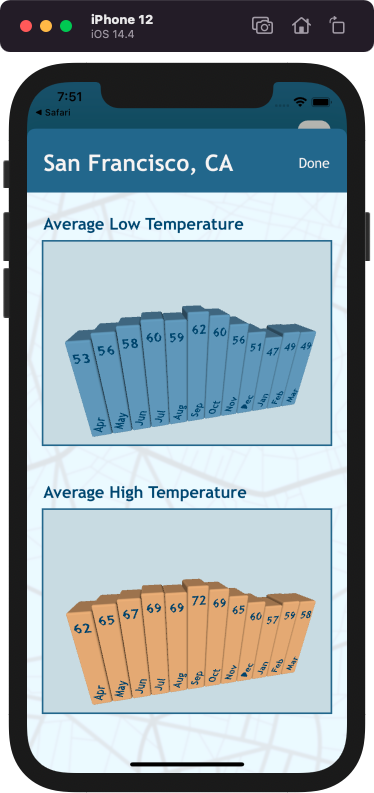
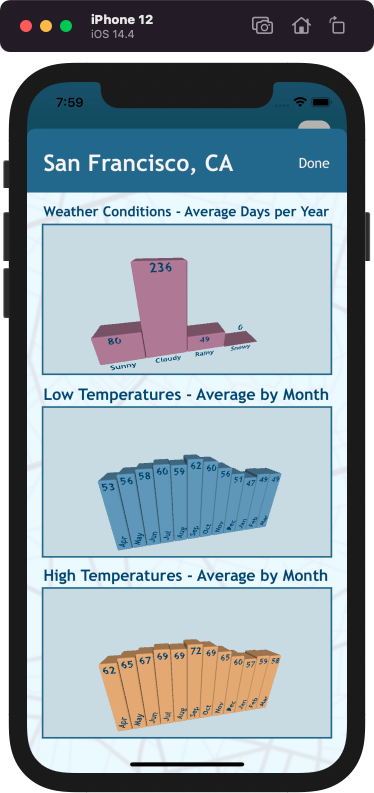
Implemented new weather data, updated documentation

diff --git a/labs-ios-starter/WeatherViewController.swift b/labs-ios-starter/WeatherViewController.swift
@@ -14,6 +14,7 @@ class WeatherViewController: UIViewController {
     // MARK: - Outlets
     
     @IBOutlet private var cityLabel: UILabel!
+    @IBOutlet private var conditionsView: SCNView!
     @IBOutlet private var lowView: SCNView!
     @IBOutlet private var highView: SCNView!
     
@@ -24,13 +25,15 @@ class WeatherViewController: UIViewController {
     var lowCameraNode = SCNNode()
     var highScene = SCNScene()
     var highCameraNode = SCNNode()
+    var conditionsScene = SCNScene()
+    var conditionsCameraNode = SCNNode()
     
     // MARK: - View Lifecycle
 
     override func viewDidLoad() {
         super.viewDidLoad()
-        setupView()
-        setupCamera()
+        setupViews()
+        setupCameras()
         updateViews()
     }
     
@@ -46,10 +49,50 @@ class WeatherViewController: UIViewController {
         guard let city = city,
               let weather = city.weather else { return }
         cityLabel.text = city.cityName + ", " + city.cityState
-        drawBars(weather: weather)
+        drawTemperatureBars(weather: weather)
+        guard let conditions = city.conditions else { return }
+        drawConditionsBars(conditions: conditions)
     }
     
-    private func drawBars(weather: Weather) {
+    /// draws the bar graph for weather conditions
+    /// - Parameter conditions: accepts an unwrapped version of the City's conditions
+    private func drawConditionsBars(conditions: Conditions) {
+        for index in 0..<conditions.conditions.count {
+            let height = CGFloat(conditions.conditions[index]) / 35
+            let yAdjust = height / 2
+            let position = ((CGFloat(index) * 3) - 6)
+            
+            let bar = SCNBox(width: 3, height: height, length: 1.5, chamferRadius: 0.1)
+            bar.materials.first?.diffuse.contents = UIColor(named: "PieChartPurple")
+            let node = SCNNode(geometry: bar)
+            node.position = SCNVector3(position, yAdjust + 0.5, 0)
+            conditionsScene.rootNode.addChildNode(node)
+            
+            var daysHeightAdjust = CGFloat(-1.6)
+            if conditions.conditions[index] < 25 {
+                daysHeightAdjust = 0.5
+            }
+            let daysString = String(conditions.conditions[index])
+            let daysText = SCNText(string: daysString, extrusionDepth: 0)
+            daysText.font = UIFont(name: "TrebuchetMS-Bold", size: 0.7)
+            daysText.materials.first?.diffuse.contents = UIColor(named: "DarkBlue")
+            let daysTextNode = SCNNode(geometry: daysText)
+            daysTextNode.position = SCNVector3(-0.6, yAdjust + daysHeightAdjust, 0.8)
+            node.addChildNode(daysTextNode)
+            
+            let labelString = conditions.labels[index]
+            let labelText = SCNText(string: labelString, extrusionDepth: 0)
+            labelText.font = UIFont(name: "TrebuchetMS-Bold", size: 0.6)
+            labelText.materials.first?.diffuse.contents = UIColor(named: "DarkBlue")
+            let labelNode = SCNNode(geometry: labelText)
+            labelNode.position = SCNVector3(-0.9, -yAdjust - 1.5, 0.8)
+            node.addChildNode(labelNode)
+        }
+    }
+    
+    /// draws the bar graphs for average low temperatures and average high temperatures
+    /// - Parameter weather: accepts an unwrapped version of the City's weather data
+    private func drawTemperatureBars(weather: Weather) {
         for index in 0..<weather.months.count {
             let lowHeight = CGFloat(weather.months[index].minTemp / 10)
             let lowYAdjust = lowHeight / 2
@@ -68,7 +111,7 @@ class WeatherViewController: UIViewController {
             lowText.font = UIFont(name: "TrebuchetMS-Bold", size: 0.6)
             lowText.materials.first?.diffuse.contents = UIColor(named: "DarkBlue")
             let lowTextNode = SCNNode(geometry: lowText)
-            lowTextNode.position = SCNVector3(-0.35, lowYAdjust - 2, 0.8)
+            lowTextNode.position = SCNVector3(-0.35, lowYAdjust - 1.6, 0.8)
             lowNode.addChildNode(lowTextNode)
             
             let highBar = SCNBox(width: 1, height: highHeight, length: 1.5, chamferRadius: 0.1)
@@ -82,7 +125,7 @@ class WeatherViewController: UIViewController {
             highText.font = UIFont(name: "TrebuchetMS-Bold", size: 0.6)
             highText.materials.first?.diffuse.contents = UIColor(named: "DarkBlue")
             let highTextNode = SCNNode(geometry: highText)
-            highTextNode.position = SCNVector3(-0.35, lowYAdjust - 2, 0.8)
+            highTextNode.position = SCNVector3(-0.35, highYAdjust - 1.6, 0.8)
             highNode.addChildNode(highTextNode)
             
             guard let monthString = weather.months[index].month else { return }
@@ -105,26 +148,39 @@ class WeatherViewController: UIViewController {
         }
     }
     
-    private func setupView() {
+    /// configures each SceneKit view, and attaches the scene to the view
+    private func setupViews() {
         lowView.allowsCameraControl = false
         lowView.autoenablesDefaultLighting = true
         highView.allowsCameraControl = false
         highView.autoenablesDefaultLighting = true
+        conditionsView.allowsCameraControl = false
+        conditionsView.autoenablesDefaultLighting = true
+        
         lowView.scene = lowScene
         lowScene.background.contents = UIColor(named: "VeryLightBlue")
         highView.scene = highScene
         highScene.background.contents = UIColor(named: "VeryLightBlue")
+        conditionsView.scene = conditionsScene
+        conditionsScene.background.contents = UIColor(named: "VeryLightBlue")
     }
     
-    private func setupCamera() {
+    /// sets up the camera for each SceneKit view, configuring its position and rotation angle
+    private func setupCameras() {
         lowCameraNode.camera = SCNCamera()
         lowCameraNode.position = SCNVector3(x: -3, y: 8, z: 8)
         lowCameraNode.eulerAngles = SCNVector3(-0.4, -0.2, 0)
         lowScene.rootNode.addChildNode(lowCameraNode)
+        
         highCameraNode.camera = SCNCamera()
         highCameraNode.position = SCNVector3(x: -3, y: 8, z: 8)
         highCameraNode.eulerAngles = SCNVector3(-0.4, -0.2, 0)
         highScene.rootNode.addChildNode(highCameraNode)
+        
+        conditionsCameraNode.camera = SCNCamera()
+        conditionsCameraNode.position = SCNVector3(x: -3, y: 8, z: 8)
+        conditionsCameraNode.eulerAngles = SCNVector3(-0.4, -0.2, 0)
+        conditionsScene.rootNode.addChildNode(conditionsCameraNode)
     }
 
 }

diff --git a/labs-ios-starter/Model/City.swift b/labs-ios-starter/Model/City.swift
@@ -21,6 +21,10 @@ struct City: Decodable {
         case diversity_index
         case walkability
         case livability
+        case sunny_days_avg_year
+        case cloudy_days_avg_year
+        case rainy_days_avg_year
+        case snowy_days_avg_year
         case recommendations
         
         enum recommendationKeys: String, CodingKey {
@@ -44,6 +48,7 @@ struct City: Decodable {
     var airQuality: String?
     var recommendations: [Recommendation] = []
     var weather: Weather? = nil
+    var conditions: Conditions? = nil
     var housing: Housing? = nil
     
     init(cityName: String, cityState: String) {
@@ -63,6 +68,7 @@ struct City: Decodable {
         diversityIndex = try container.decodeIfPresent(Int.self, forKey: .diversity_index)
         crime = try container.decodeIfPresent(String.self, forKey: .crime)
         rentalPrice = try container.decodeIfPresent(Int.self, forKey: .rental_price)
+        
         airQuality = try container.decodeIfPresent(String.self, forKey: .air_quality_index)
         if let air = airQuality {
             if let airQualityWord = airQualityDictionary[air] {
@@ -71,6 +77,14 @@ struct City: Decodable {
                 airQuality = "Good"
             }
         }
+        
+        if let sunnyDays = try container.decodeIfPresent(Int.self, forKey: .sunny_days_avg_year),
+           let cloudyDays = try container.decodeIfPresent(Int.self, forKey: .cloudy_days_avg_year),
+           let rainyDays = try container.decodeIfPresent(Int.self, forKey: .rainy_days_avg_year),
+           let snowyDays = try container.decodeIfPresent(Int.self, forKey: .snowy_days_avg_year) {
+            conditions = Conditions(conditions: [sunnyDays, cloudyDays, rainyDays, snowyDays])
+        }
+        
         recommendations = try container.decodeIfPresent([Recommendation].self, forKey: .recommendations) ?? []
     }
 }

diff --git a/labs-ios-starter/ModelController/ApiController.swift b/labs-ios-starter/ModelController/ApiController.swift
@@ -15,7 +15,7 @@ class ApiController {
     
     // MARK: - Properties
     
-    private let webBaseURL = URL(string: "https://pt17-cityspire-b.herokuapp.com/api")!
+    private let webBaseURL = URL(string: "https://pt17-cityspire-b.herokuapp.com/")!
     private let dsBaseURL = URL(string: "http://cityspire-b-ds.eba-jesgmne9.us-east-1.elasticbeanstalk.com/api")!
     let dataLoader: NetworkDataLoader
     private let cache = Cache<String, City>()
@@ -72,7 +72,7 @@ class ApiController {
     }
     
     /// called in getPropertyData in CityDashboardVC to interpret string values into integers for use in configuring the CircularProgressBarView
-    /// needs editing once the list of predetermined words is available from DS/Web
+    /// Note: airQualityDictionary in Constants is used when saving the City to convert Air Quality Index words to the words used in this app
     /// - Parameter word: accepts a string from a predetermined list
     /// - Returns: returns an integer interpreting the string into a value between 0 and 100
     func stringToInt(word: String) -> Int {
@@ -213,6 +213,8 @@ class ApiController {
         }
     }
     
+    /// updates a city in the cache
+    /// - Parameter city: accepts a City
     private func updateCachedCity(city: City) {
         let fullCityName = city.cityName + ", " + city.cityState
         self.cache.cache(value: city, for: fullCityName)

diff --git a/labs-ios-starter/Helpers/MockData.swift b/labs-ios-starter/Helpers/MockData.swift
@@ -14,35 +14,39 @@ let validSFJSON = """
     "city": "San Francisco",
     "state": "CA"
   },
-  "latitude": 37.758840565722686,
-  "longitude": -122.44588851928711,
-  "rental_price": 2800,
-  "crime": "Low",
+  "latitude": 37.773972,
+  "longitude": -122.431297,
+  "rental_price": 3700,
+  "crime": "High",
   "air_quality_index": "Good",
-  "population": 874961,
-  "diversity_index": 80,
-  "walkability": 88,
-  "livability": 70,
+  "population": 886007,
+  "diversity_index": 69,
+  "sunny_days_avg_year": 80,
+  "cloudy_days_avg_year": 236,
+  "rainy_days_avg_year": 49,
+  "snowy_days_avg_year": 0,
+  "walkability": 87,
+  "livability": 50,
   "recommendations": [
     {
-      "city": "Seattle",
-      "state": "WA"
-    },
-    {
-      "city": "Portland",
-      "state": "OR"
-    },
-    {
-      "city": "Austin",
+      "city": "Odessa",
       "state": "TX"
     },
     {
-      "city": "New York",
-      "state": "NY"
+      "city": "Provo",
+      "state": "UT"
     },
     {
-      "city": "Boston",
-      "state": "MA"
+      "city": "Sanford",
+      "state": "FL"
+    },
+    {
+      "city": "Santa Clara",
+      "state": "CA"
+    },
+    {
+      "city": "Sheridan",
+      "state": "WY"
     }
   ]
 }

diff --git a/labs-ios-starter/Helpers/Constants.swift b/labs-ios-starter/Helpers/Constants.swift
@@ -36,8 +36,10 @@ enum NetworkError: Error {
     case otherError
 }
 
+// dictionary used to convert the Air Quality Index words to the words used in our app
 let airQualityDictionary: [String: String] = ["Good": "Excellent", "Moderate": "Good", "Unhealthy for Sensitive Groups": "Fair", "Unhealthy": "Fair", "Very Unhealthy": "Poor", "Hazardous": "Hazardous" ]
 
+// explanations of city properties displayed on CityDashboard
 let propertyDescriptionDictionary: [String: String] =
     ["livability": "CitySpire's livability score is calculated using many of the city's attributes, and soon will be adjusted to your personal preferences to assess how well the city might fit your needs. Please visit the Settings page once this feature is available, to set your preferences.",
      "walkability": "A city's walkability score is determined by analyzing the distance to various amenities as well as the level of pedestrian friendliness. The score will be higher if most errands do not require a car and many amenities are located within a 5 minute walk. Lower scores indicate that fewer errands could be done on foot, and amenities are closer to 30 minutes away.",

diff --git a/labs-ios-starter/HousingViewController.swift b/labs-ios-starter/HousingViewController.swift
@@ -59,6 +59,8 @@ class HousingViewController: UIViewController {
         drawBars(housing: housing)
     }
     
+    /// draws the bar graph for housing prices by bedroom
+    /// - Parameter housing: accepts an unwrapped version of the City's housing data
     private func drawBars(housing: Housing) {
         guard housing.bedrooms.count == 5 else { return }
         let maxPrice = CGFloat(housing.bedrooms[4])
@@ -95,6 +97,7 @@ class HousingViewController: UIViewController {
         }
     }
     
+    /// configures the SceneKit view, and attaches the scene to the view
     private func setupView() {
         sceneView.allowsCameraControl = false
         sceneView.autoenablesDefaultLighting = true
@@ -102,6 +105,7 @@ class HousingViewController: UIViewController {
         scene.background.contents = UIColor(named: "VeryLightBlue")
     }
     
+    /// sets up the camera for the SceneKit view, configuring its position and rotation angle
     private func setupCamera() {
         cameraNode.camera = SCNCamera()
         cameraNode.position = SCNVector3(x: -3, y: 8, z: 8)

diff --git a/labs-ios-starter/MapScreen/MapViewController.swift b/labs-ios-starter/MapScreen/MapViewController.swift
@@ -100,6 +100,7 @@ class MapViewController: UIViewController {
     }
     
     /// The user will be able to select a map item category. Once the category is selected, the map view will add annotations for all items matching the category within the region that the user is currently over on the map.
+    /// Note: MapKit appears to have a 25 item limit on results from a point of interest search
     /// - Parameter category: Accepts a point of interest item from a list of categories shown in a picker format.
     private func requestPointsOfInterest(category: POICategory) {
         if span.latitudeDelta > 0.03 {

diff --git a/labs-ios-starter/CityDashboardViewController.swift b/labs-ios-starter/CityDashboardViewController.swift
@@ -8,6 +8,10 @@
 
 import UIKit
 
+/// this VC makes use of a stack to display one City after another as the user selects Similar Cities to view
+/// a Back button appears when there is more than one City in cityStack to allow the user to revisit a previous City
+/// as the user selects a new city, it is appended to cityStack, which is configured to always display the last element in the stack
+/// the Back button pops the last element from cityStack, triggering the display to reload
 class CityDashboardViewController: UIViewController {
     
     // MARK: - Outlets

diff --git a/labs-ios-starter/Model/NetworkModels.swift b/labs-ios-starter/Model/NetworkModels.swift
@@ -89,3 +89,10 @@ struct Housing: Decodable {
         bedrooms = [one, two, three, four, five]
     }
 }
+
+/// four properties in the DS api's get_data endpoint are for weather conditions
+/// this data structure combines them into a format that is easily used in displaying the data in WeatherVC
+struct Conditions: Decodable {
+    var labels = ["Sunny", "Cloudy", "Rainy", "Snowy"]
+    var conditions: [Int]
+}

diff --git a/labs-ios-starter/Helpers/MockLoader.swift b/labs-ios-starter/Helpers/MockLoader.swift
@@ -8,7 +8,7 @@
 
 import Foundation
 
-/// used to provide mock data for unit tests and for display in the UI in the absence of endpoints
+/// used to provide mock data for display in the UI in the absence of endpoints
 class MockLoader: NetworkDataLoader {
     
     var data: Data?

diff --git a/labs-ios-starter/HomeScreen/HomeScreenViewController.swift b/labs-ios-starter/HomeScreen/HomeScreenViewController.swift
@@ -9,6 +9,8 @@
 import UIKit
 import MapKit
 
+/// the delegate method used to convey the user's selections on the "Mock Tab Bar"
+/// HomeScreenVC and FavoritesVC both conform to TabButtonDelegate
 protocol TabButtonDelegate {
     func homeSelected()
     func pinsSelected()

diff --git a/labs-ios-starter/Model/PieChart.swift b/labs-ios-starter/Model/PieChart.swift
@@ -11,7 +11,5 @@ import UIKit
 
 struct PieChartSegment {
     var color: UIColor
-    var value: CGFloat
-    
-    static let savedSegment = "SavedSegment"
+    var value: CGFloat    
 }
